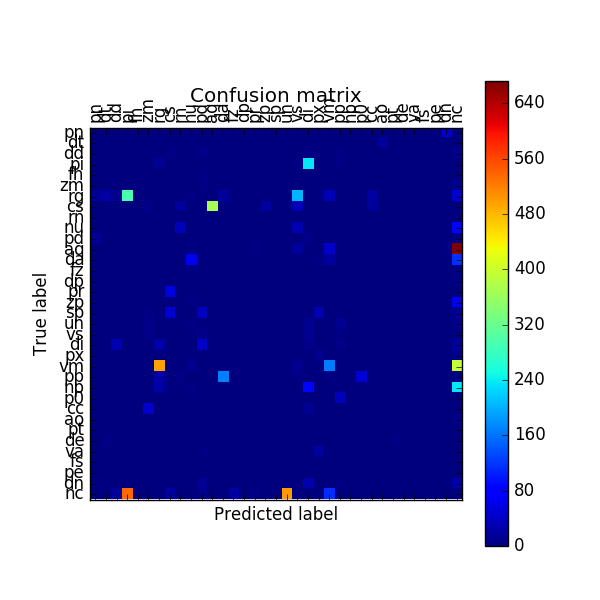
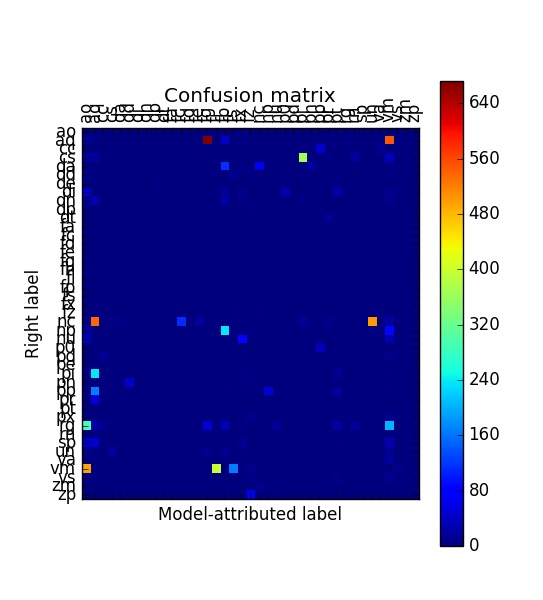
Finishing Práctico 2.

diff --git a/tagging/hmm.py b/tagging/hmm.py
@@ -227,28 +227,28 @@ class MLHMM:
         addone -- whether to use addone smoothing (default: True).
         """
         self._n = n
-        
+
         # self.__words_voc and self.__tags_voc are the set of words and tags
         # seen in training data, respectively. They will be needed mainly for
         # the addone smoothing (and the unknown method).
         self.__words_voc = set()
         self.__tags_voc = set()
-        
+
         # self.__counts_n, self.__counts_n_1 and self.__counts_1 will have the
         # number of appearances in the training data, related to n-grams,
         # (n-1)-grams and unigrams of tags, respectively.
         self.__counts_n = defaultdict(int)
         self.__counts_n_1 = defaultdict(int)
         self.__counts_1 = defaultdict(int)
-        
+
         # self.__counts_words will have the number of times certain tag has
         # been paired with a certain word
         self.__counts_words = dict()
-        
+
         # self.__e is the maximum likelihood estimator of seeing a word given
         # its tag.
         self.__e = dict()
-        
+
         # self.__q is the maximum likelihood estimator of finding a tag given
         # a (self._n - 1)-gram of previous tags.
         self.__q = defaultdict(float)
@@ -259,7 +259,7 @@ class MLHMM:
                 # if (self._n > 2):
                 #   # Update the number of occurrences of the unigram tag.
                 self.__counts_1[(tag,)] += 1
-                
+
                 # Update counts for this (tag, word) occurrence.
                 if (tag not in self.__counts_words.keys()):
                     self.__counts_words[tag] = defaultdict(int)

diff --git a/tagging/scripts/eval.py b/tagging/scripts/eval.py
@@ -47,7 +47,7 @@ if __name__ == '__main__':
     hits_known, hits_unknown = 0, 0
     total_known, total_unknown = 0, 0
 
-    # For confusion matrix. They are going to be filled with every new 
+    # For confusion matrix. They are going to be filled with every new
     # tag that the model returns (model_tags), or with the correct tag
     gold_tags = set()
     model_tags = set()
@@ -111,8 +111,9 @@ if __name__ == '__main__':
     for gold_tag in gold_tags_list:
         # Start by creating a row associated to gold_tag, all filled with 0s.
         positions = [0] * cant_model_tags
-        for t, v in sorted(confusion_matrix[gold_tag].items(), key=lambda x:x[0]):
-            # Then, for every tag t returned by the model, insert the number 
+        for t, v in sorted(confusion_matrix[gold_tag].items(),
+                           key=lambda x: x[0]):
+            # Then, for every tag t returned by the model, insert the number
             # of times gold_tag was confused with t.
             pos = model_tags_list.index(t)
             positions.remove(positions[pos])
@@ -127,7 +128,8 @@ if __name__ == '__main__':
     pyplot.title('Confusion matrix')
     pyplot.ylabel('Right label')
     pyplot.xlabel('Model-attributed label')
-    pyplot.xticks(np.arange(cant_model_tags), tuple(model_tags_list), rotation=90)
+    pyplot.xticks(np.arange(cant_model_tags), tuple(model_tags_list),
+                  rotation=90)
     pyplot.yticks(np.arange(cant_gold_tags), tuple(gold_tags_list))
 
     pyplot.show()

diff --git a/tagging/features.py b/tagging/features.py
@@ -71,7 +71,7 @@ class NPrevTags(Feature):
 
         h -- a history.
         """
-        return ((h.prev_tags)[-(self.__n):])
+        return ((list(h.prev_tags))[-(self.__n):])
 
 
 class PrevWord(Feature):

diff --git a/tagging/memm.py b/tagging/memm.py
@@ -128,4 +128,4 @@ class MEMM:
 
         w -- the word.
         """
-        return (w in self.__voc)
+        return (w not in self.__voc)
